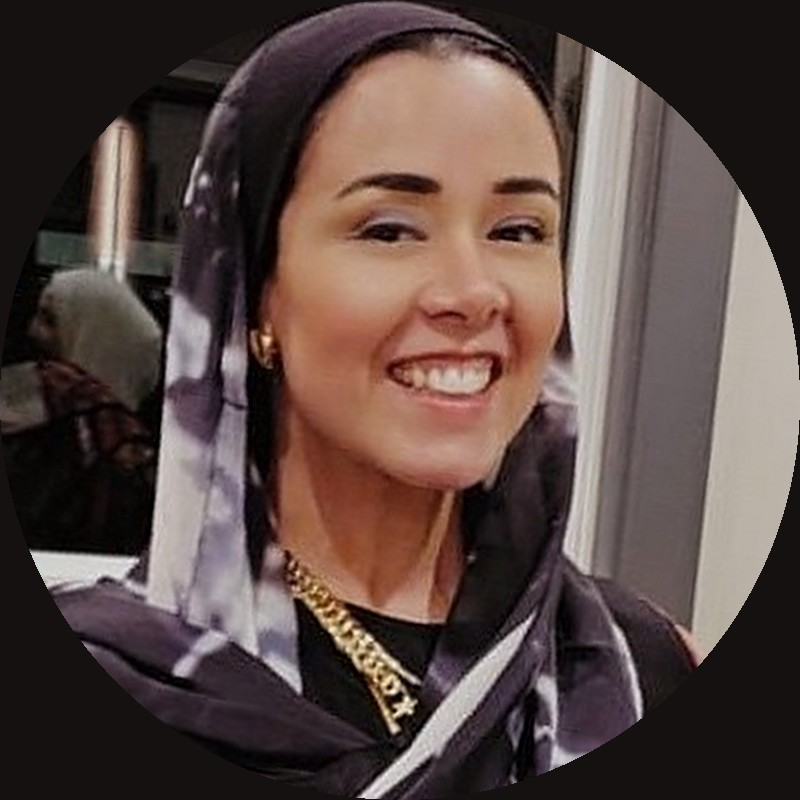
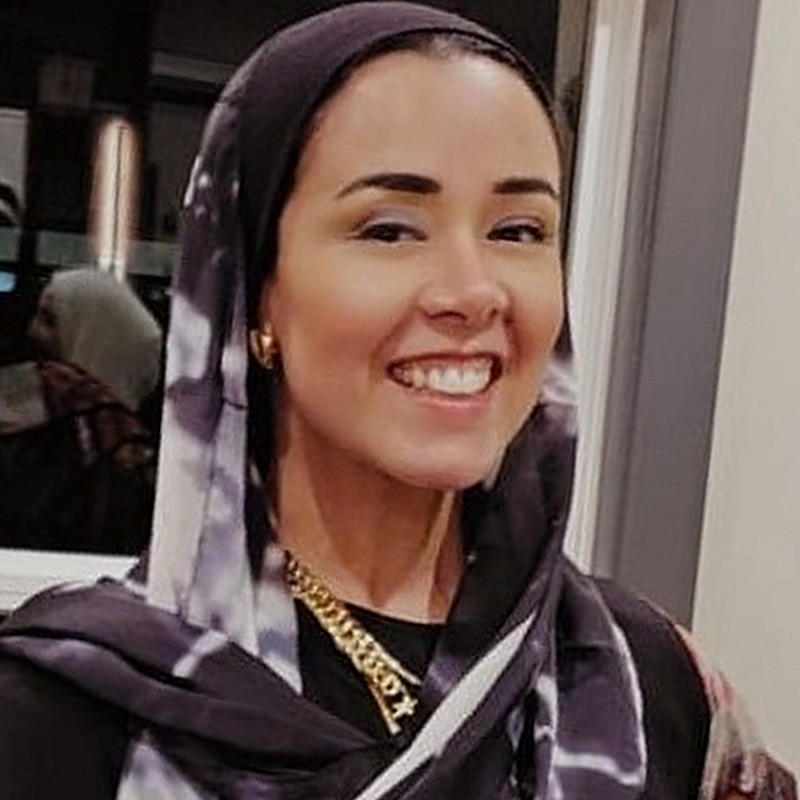
Portrait as a rounded square, larger

diff --git a/index.html b/index.html
@@ -65,13 +65,13 @@ nav .wrap{display:flex;align-items:center;gap:22px;height:66px}
 .hero .cta{display:flex;flex-wrap:wrap;gap:12px;margin:30px 0 26px}
 .meta{display:flex;flex-wrap:wrap;gap:8px 22px;color:var(--ink2);font-size:.95rem}
 .meta a{color:var(--ink);text-decoration-color:var(--line);text-underline-offset:4px}
-.portrait{position:relative;justify-self:center;width:min(100%,470px);aspect-ratio:1}
-.portrait img{width:100%;height:100%;object-fit:cover;border-radius:50%;display:block;box-shadow:var(--shadow);position:relative;z-index:2}
-.portrait .ring{position:absolute;inset:-18px auto auto -18px;width:106%;height:106%;aspect-ratio:1;border-radius:50%;border:1.5px dashed var(--gold);opacity:.7;z-index:1;animation:spin 60s linear infinite}
-.portrait .blob{position:absolute;left:-40px;bottom:-30px;width:72%;aspect-ratio:1;border-radius:50%;background:radial-gradient(circle at 30% 30%,var(--soft),transparent 70%);z-index:0}
-.badge{position:absolute;z-index:3;left:-14px;bottom:18px;background:var(--surface);border:1px solid var(--line);border-radius:14px;padding:12px 16px;box-shadow:var(--shadow);font-size:.9rem;line-height:1.35}
+.portrait{position:relative;justify-self:center;width:min(100%,480px);aspect-ratio:1}
+.portrait img{width:100%;height:100%;object-fit:cover;border-radius:30px;display:block;box-shadow:var(--shadow);position:relative;z-index:2}
+.portrait .ring{display:none;position:absolute;inset:-18px auto auto -18px;width:106%;height:106%;aspect-ratio:1;border-radius:50%;border:1.5px dashed var(--gold);opacity:.7;z-index:1;animation:spin 60s linear infinite}
+.portrait .blob{position:absolute;left:-60px;bottom:-50px;width:85%;aspect-ratio:1;border-radius:50%;background:radial-gradient(circle at 30% 30%,var(--soft),transparent 70%);z-index:0}
+.badge{position:absolute;z-index:3;left:-18px;bottom:28px;background:var(--surface);border:1px solid var(--line);border-radius:14px;padding:12px 16px;box-shadow:var(--shadow);font-size:.9rem;line-height:1.35}
 .badge b{display:block;font-family:Fraunces,serif;font-size:1.3rem;font-weight:600;color:var(--accent)}
-.badge.ar{left:auto;right:-8px;top:14px;bottom:auto;font-family:Fraunces,serif;font-size:1rem}
+.badge.ar{left:auto;right:-14px;top:22px;bottom:auto;font-family:Fraunces,serif;font-size:1rem}
 @keyframes spin{to{transform:rotate(360deg)}}
 .grain{position:absolute;inset:0;pointer-events:none;background-image:radial-gradient(var(--line) .6px,transparent .6px);background-size:22px 22px;opacity:.35;mask-image:linear-gradient(to bottom,black,transparent 85%)}
 
